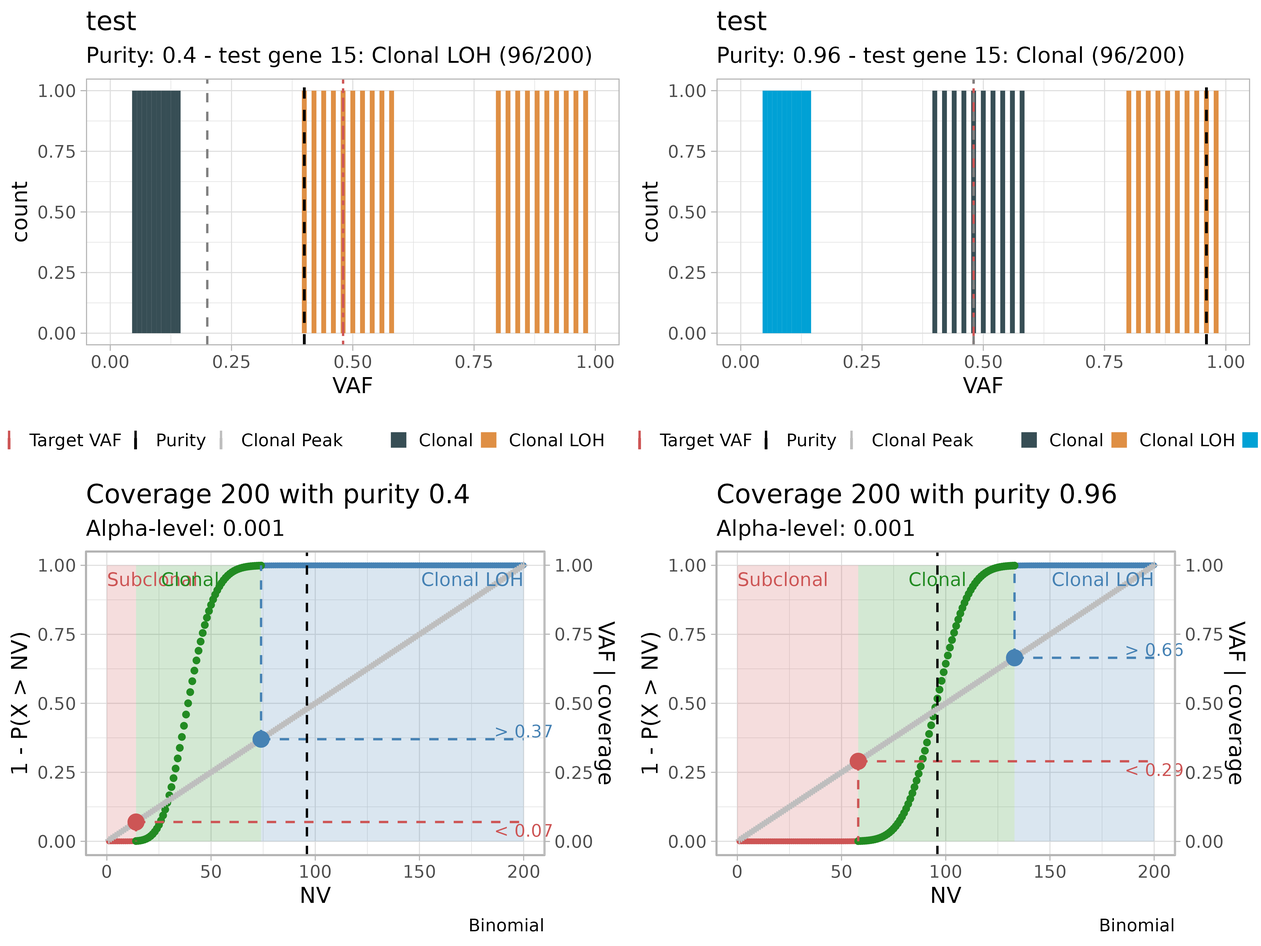
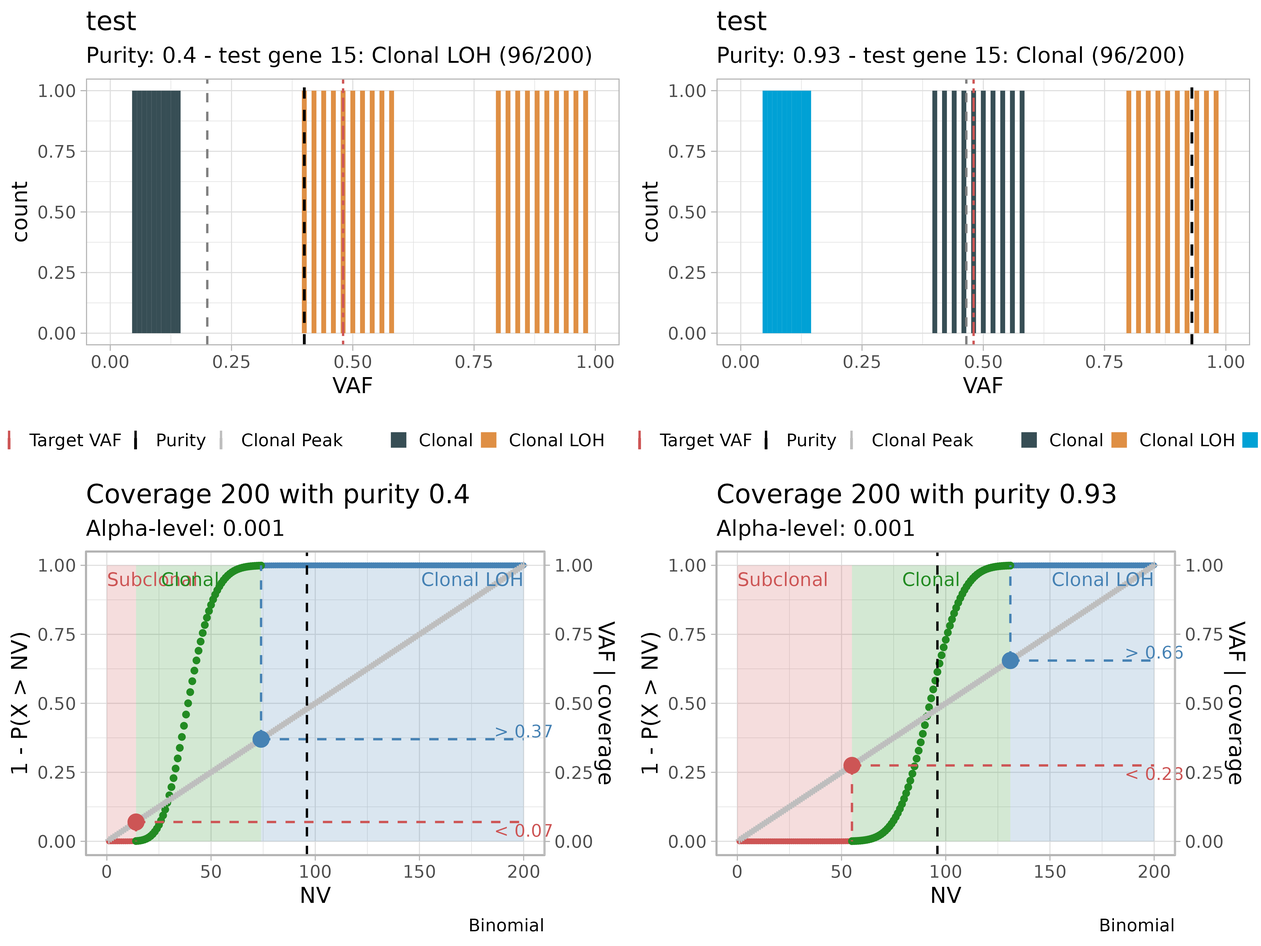
Deploying to gh-pages from @ caravagnalab/TAPACLOTH@2d69d090466bd095324ee751b7a79874f3210a61 🚀

diff --git a/articles/purity-estimates.html b/articles/purity-estimates.html
@@ -133,10 +133,12 @@
 <span></span>
 <span><span class="co">#&gt; Warning in stats4::mle(minuslogl = .NLLBetaBinMix(k + K[1], data, z_nk, : start</span></span>
 <span><span class="co">#&gt; values do not satisfy constraints</span></span>
-<span></span>
+<span><span class="co">#&gt; Warning in lbeta(shape1[okk], shape2[okk]): NaNs produced</span></span>
+<span><span class="co">#&gt; Warning in value[[3L]](cond): MLE error, forcing stop.</span></span>
 <span><span class="co">#&gt; Warning in stats4::mle(minuslogl = .NLLBetaBinMix(k + K[1], data, z_nk, : start</span></span>
 <span><span class="co">#&gt; values do not satisfy constraints</span></span>
-<span></span>
+<span><span class="co">#&gt; Warning in lbeta(shape1[okk], shape2[okk]): NaNs produced</span></span>
+<span><span class="co">#&gt; Warning in value[[3L]](cond): MLE error, forcing stop.</span></span>
 <span><span class="co">#&gt; Warning in stats4::mle(minuslogl = .NLLBetaBinMix(k + K[1], data, z_nk, : start</span></span>
 <span><span class="co">#&gt; values do not satisfy constraints</span></span>
 <span></span>
@@ -152,23 +154,23 @@
 <span></span>
 <span><span class="co">#&gt; Warning in stats4::mle(minuslogl = .NLLBetaBinMix(k + K[1], data, z_nk, : start</span></span>
 <span><span class="co">#&gt; values do not satisfy constraints</span></span>
+<span></span>
+<span><span class="co">#&gt; Warning in stats4::mle(minuslogl = .NLLBetaBinMix(k + K[1], data, z_nk, : start</span></span>
+<span><span class="co">#&gt; values do not satisfy constraints</span></span>
+<span></span>
+<span><span class="co">#&gt; Warning in stats4::mle(minuslogl = .NLLBetaBinMix(k + K[1], data, z_nk, : start</span></span>
+<span><span class="co">#&gt; values do not satisfy constraints</span></span>
+<span></span>
+<span><span class="co">#&gt; Warning in stats4::mle(minuslogl = .NLLBetaBinMix(k + K[1], data, z_nk, : start</span></span>
+<span><span class="co">#&gt; values do not satisfy constraints</span></span>
 <span><span class="co">#&gt; Warning in lbeta(shape1[okk], shape2[okk]): NaNs produced</span></span>
 <span><span class="co">#&gt; Warning in value[[3L]](cond): MLE error, forcing stop.</span></span>
-<span><span class="co">#&gt; Warning in stats4::mle(minuslogl = .NLLBetaBinMix(k + K[1], data, z_nk, : start</span></span>
-<span><span class="co">#&gt; values do not satisfy constraints</span></span>
-<span></span>
-<span><span class="co">#&gt; Warning in stats4::mle(minuslogl = .NLLBetaBinMix(k + K[1], data, z_nk, : start</span></span>
-<span><span class="co">#&gt; values do not satisfy constraints</span></span>
-<span></span>
-<span><span class="co">#&gt; Warning in stats4::mle(minuslogl = .NLLBetaBinMix(k + K[1], data, z_nk, : start</span></span>
-<span><span class="co">#&gt; values do not satisfy constraints</span></span>
-<span></span>
 <span><span class="co">#&gt; Warning in stats4::mle(minuslogl = .NLLBetaBinMix(k + K[1], data, z_nk, : start</span></span>
 <span><span class="co">#&gt; values do not satisfy constraints</span></span>
 <span><span class="co">#&gt; <span style="color: #00BBBB;">ℹ</span> <span style="font-weight: bold;">Bmix best fit</span> completed in 0.02 mins</span></span>
 <span><span class="co">#&gt; ── <span style="color: #000000; background-color: #BBBB00;">[ BMix ] My BMix model</span> n = 10 with <span style="color: #00BB00;">k = 1</span> component(s) (<span style="color: #00BB00;">0</span> + <span style="color: #00BB00;">1</span>) ───────────────</span></span>
 <span><span class="co">#&gt; • Clusters: π = 100% [<span style="color: #BBBB00;">BBin 1</span>], with π &gt; 0.</span></span>
-<span><span class="co">#&gt; <span style="color: #00BBBB;">ℹ</span> Score (model selection): <span style="color: #00BB00;">ICL</span> = 98.97.</span></span>
+<span><span class="co">#&gt; <span style="color: #00BBBB;">ℹ</span> Score (model selection): <span style="color: #00BB00;">ICL</span> = 99.</span></span>
 <span><span class="co">#&gt; Warning: `guides(&lt;scale&gt; = FALSE)` is deprecated. Please use `guides(&lt;scale&gt; =</span></span>
 <span><span class="co">#&gt; "none")` instead.</span></span>
 <span><span class="co">#&gt; Warning: Removed 2 rows containing missing values (geom_bar).</span></span>
@@ -212,17 +214,6 @@
 <span><span class="co">#&gt; <span style="color: #00BBBB;">ℹ</span> Binomials k_B = <span style="color: #00BB00;">0</span>, Beta-Binomials k_BB = <span style="color: #00BB00;">1</span>, <span style="color: #00BB00;">2</span>, and <span style="color: #00BB00;">3</span>; 6 fits to run.</span></span>
 <span><span class="co">#&gt; Warning in stats4::mle(minuslogl = .NLLBetaBinMix(k + K[1], data, z_nk, : start</span></span>
 <span><span class="co">#&gt; values do not satisfy constraints</span></span>
-<span></span>
-<span><span class="co">#&gt; Warning in stats4::mle(minuslogl = .NLLBetaBinMix(k + K[1], data, z_nk, : start</span></span>
-<span><span class="co">#&gt; values do not satisfy constraints</span></span>
-<span><span class="co">#&gt; Warning in lbeta(shape1[okk], shape2[okk]): NaNs produced</span></span>
-<span><span class="co">#&gt; Warning in value[[3L]](cond): MLE error, forcing stop.</span></span>
-<span><span class="co">#&gt; Warning in stats4::mle(minuslogl = .NLLBetaBinMix(k + K[1], data, z_nk, : start</span></span>
-<span><span class="co">#&gt; values do not satisfy constraints</span></span>
-<span><span class="co">#&gt; Warning in lbeta(shape1[okk], shape2[okk]): NaNs produced</span></span>
-<span><span class="co">#&gt; Warning in value[[3L]](cond): MLE error, forcing stop.</span></span>
-<span><span class="co">#&gt; Warning in stats4::mle(minuslogl = .NLLBetaBinMix(k + K[1], data, z_nk, : start</span></span>
-<span><span class="co">#&gt; values do not satisfy constraints</span></span>
 <span><span class="co">#&gt; Warning in lbeta(shape1[okk], shape2[okk]): NaNs produced</span></span>
 <span><span class="co">#&gt; Warning in value[[3L]](cond): MLE error, forcing stop.</span></span>
 <span><span class="co">#&gt; Warning in stats4::mle(minuslogl = .NLLBetaBinMix(k + K[1], data, z_nk, : start</span></span>
@@ -248,12 +239,19 @@
 <span></span>
 <span><span class="co">#&gt; Warning in stats4::mle(minuslogl = .NLLBetaBinMix(k + K[1], data, z_nk, : start</span></span>
 <span><span class="co">#&gt; values do not satisfy constraints</span></span>
-<span><span class="co">#&gt; Warning in lbeta(shape1[okk], shape2[okk]): NaNs produced</span></span>
-<span><span class="co">#&gt; Warning in value[[3L]](cond): MLE error, forcing stop.</span></span>
+<span></span>
+<span><span class="co">#&gt; Warning in stats4::mle(minuslogl = .NLLBetaBinMix(k + K[1], data, z_nk, : start</span></span>
+<span><span class="co">#&gt; values do not satisfy constraints</span></span>
+<span></span>
+<span><span class="co">#&gt; Warning in stats4::mle(minuslogl = .NLLBetaBinMix(k + K[1], data, z_nk, : start</span></span>
+<span><span class="co">#&gt; values do not satisfy constraints</span></span>
+<span></span>
+<span><span class="co">#&gt; Warning in stats4::mle(minuslogl = .NLLBetaBinMix(k + K[1], data, z_nk, : start</span></span>
+<span><span class="co">#&gt; values do not satisfy constraints</span></span>
 <span><span class="co">#&gt; <span style="color: #00BBBB;">ℹ</span> <span style="font-weight: bold;">Bmix best fit</span> completed in 0.02 mins</span></span>
 <span><span class="co">#&gt; ── <span style="color: #000000; background-color: #BBBB00;">[ BMix ] My BMix model</span> n = 30 with <span style="color: #00BB00;">k = 3</span> component(s) (<span style="color: #00BB00;">0</span> + <span style="color: #00BB00;">3</span>) ───────────────</span></span>
-<span><span class="co">#&gt; • Clusters: π = 33% [<span style="color: #BBBB00;">BBin 2</span>], 33% [<span style="color: #BBBB00;">BBin 3</span>], and 33% [<span style="color: #BBBB00;">BBin 1</span>], with π &gt; 0.</span></span>
-<span><span class="co">#&gt; <span style="color: #00BBBB;">ℹ</span> Score (model selection): <span style="color: #00BB00;">ICL</span> = 314.68.</span></span>
+<span><span class="co">#&gt; • Clusters: π = 33% [<span style="color: #BBBB00;">BBin 2</span>], 33% [<span style="color: #BBBB00;">BBin 1</span>], and 33% [<span style="color: #BBBB00;">BBin 3</span>], with π &gt; 0.</span></span>
+<span><span class="co">#&gt; <span style="color: #00BBBB;">ℹ</span> Score (model selection): <span style="color: #00BB00;">ICL</span> = 317.09.</span></span>
 <span><span class="co">#&gt; Warning: `guides(&lt;scale&gt; = FALSE)` is deprecated. Please use `guides(&lt;scale&gt; =</span></span>
 <span><span class="co">#&gt; "none")` instead.</span></span>
 <span><span class="co">#&gt; Warning: Removed 6 rows containing missing values (geom_bar).</span></span>
@@ -270,7 +268,7 @@
 <span><span class="co">#&gt; <span style="color: #949494;"># A tibble: 1 × 4</span></span></span>
 <span><span class="co">#&gt;   sample input_purity reliability purity</span></span>
 <span><span class="co">#&gt;   <span style="color: #949494; font-style: italic;">&lt;chr&gt;</span>         <span style="color: #949494; font-style: italic;">&lt;dbl&gt;</span>       <span style="color: #949494; font-style: italic;">&lt;dbl&gt;</span>  <span style="color: #949494; font-style: italic;">&lt;dbl&gt;</span></span></span>
-<span><span class="co">#&gt; <span style="color: #BCBCBC;">1</span> test            0.4       0.408   0.98</span></span></code></pre></div>
+<span><span class="co">#&gt; <span style="color: #BCBCBC;">1</span> test            0.4       0.430   0.93</span></span></code></pre></div>
 <p>Results of the fitting procedure are shown in a plot in <code>data$purity_estimate$binomial$plot_bmix</code>.</p>
 <p>The output plot shows (left) the assignment of variants to the fitted mixture components, (center) the fitted densities and a comparison between the tested model, based on three different likelihood measures (BIC, ICL and NLL).</p>
 <div class="sourceCode" id="cb4"><pre class="downlit sourceCode r">
@@ -303,7 +301,7 @@
 <span><span class="co">#&gt; <span style="color: #949494;"># A tibble: 1 × 4</span></span></span>
 <span><span class="co">#&gt;   sample input_purity reliability purity</span></span>
 <span><span class="co">#&gt;   <span style="color: #949494; font-style: italic;">&lt;chr&gt;</span>         <span style="color: #949494; font-style: italic;">&lt;dbl&gt;</span>       <span style="color: #949494; font-style: italic;">&lt;dbl&gt;</span>  <span style="color: #949494; font-style: italic;">&lt;dbl&gt;</span></span></span>
-<span><span class="co">#&gt; <span style="color: #BCBCBC;">1</span> test            0.4       0.408   0.98</span></span>
+<span><span class="co">#&gt; <span style="color: #BCBCBC;">1</span> test            0.4       0.430   0.93</span></span>
 <span><span class="co">#&gt; ── <span style="color: #000000; background-color: #BB00BB;">[ TAPACLOTH ] </span> Test using <span style="color: #00BB00;">beta-binomial</span> model   ─────────────────────────────</span></span>
 <span><span class="co">#&gt; <span style="color: #949494;"># A tibble: 30 × 8</span></span></span>
 <span><span class="co">#&gt;    sample gene            nv    dp   VAF class  p_subclonal p_loh</span></span>
@@ -339,8 +337,7 @@
 <span></span>
 <span><span class="co">#&gt; Warning in stats4::mle(minuslogl = .NLLBetaBinMix(k + K[1], data, z_nk, : start</span></span>
 <span><span class="co">#&gt; values do not satisfy constraints</span></span>
-<span><span class="co">#&gt; Warning in lbeta(shape1[okk], shape2[okk]): NaNs produced</span></span>
-<span><span class="co">#&gt; Warning in value[[3L]](cond): MLE error, forcing stop.</span></span>
+<span></span>
 <span><span class="co">#&gt; Warning in stats4::mle(minuslogl = .NLLBetaBinMix(k + K[1], data, z_nk, : start</span></span>
 <span><span class="co">#&gt; values do not satisfy constraints</span></span>
 <span></span>
@@ -370,8 +367,8 @@
 <span><span class="co">#&gt; values do not satisfy constraints</span></span>
 <span><span class="co">#&gt; <span style="color: #00BBBB;">ℹ</span> <span style="font-weight: bold;">Bmix best fit</span> completed in 0.02 mins</span></span>
 <span><span class="co">#&gt; ── <span style="color: #000000; background-color: #BBBB00;">[ BMix ] My BMix model</span> n = 30 with <span style="color: #00BB00;">k = 3</span> component(s) (<span style="color: #00BB00;">0</span> + <span style="color: #00BB00;">3</span>) ───────────────</span></span>
-<span><span class="co">#&gt; • Clusters: π = 33% [<span style="color: #BBBB00;">BBin 1</span>], 33% [<span style="color: #BBBB00;">BBin 3</span>], and 33% [<span style="color: #BBBB00;">BBin 2</span>], with π &gt; 0.</span></span>
-<span><span class="co">#&gt; <span style="color: #00BBBB;">ℹ</span> Score (model selection): <span style="color: #00BB00;">ICL</span> = 317.39.</span></span>
+<span><span class="co">#&gt; • Clusters: π = 33% [<span style="color: #BBBB00;">BBin 2</span>], 33% [<span style="color: #BBBB00;">BBin 1</span>], and 33% [<span style="color: #BBBB00;">BBin 3</span>], with π &gt; 0.</span></span>
+<span><span class="co">#&gt; <span style="color: #00BBBB;">ℹ</span> Score (model selection): <span style="color: #00BB00;">ICL</span> = 317.95.</span></span>
 <span><span class="co">#&gt; Warning: `guides(&lt;scale&gt; = FALSE)` is deprecated. Please use `guides(&lt;scale&gt; =</span></span>
 <span><span class="co">#&gt; "none")` instead.</span></span>
 <span><span class="co">#&gt; Warning: Removed 6 rows containing missing values (geom_bar).</span></span>
@@ -389,20 +386,20 @@
 <span><span class="co">#&gt; <span style="color: #949494;"># A tibble: 1 × 4</span></span></span>
 <span><span class="co">#&gt;   sample input_purity reliability purity</span></span>
 <span><span class="co">#&gt;   <span style="color: #949494; font-style: italic;">&lt;chr&gt;</span>         <span style="color: #949494; font-style: italic;">&lt;dbl&gt;</span>       <span style="color: #949494; font-style: italic;">&lt;dbl&gt;</span>  <span style="color: #949494; font-style: italic;">&lt;dbl&gt;</span></span></span>
-<span><span class="co">#&gt; <span style="color: #BCBCBC;">1</span> test           0.96       0.408   0.98</span></span>
+<span><span class="co">#&gt; <span style="color: #BCBCBC;">1</span> test           0.93       0.430   0.93</span></span>
 <span><span class="co">#&gt; <span style="color: #949494;"># A tibble: 1 × 4</span></span></span>
 <span><span class="co">#&gt;   sample input_purity reliability purity</span></span>
 <span><span class="co">#&gt;   <span style="color: #949494; font-style: italic;">&lt;chr&gt;</span>         <span style="color: #949494; font-style: italic;">&lt;dbl&gt;</span>       <span style="color: #949494; font-style: italic;">&lt;dbl&gt;</span>  <span style="color: #949494; font-style: italic;">&lt;dbl&gt;</span></span></span>
-<span><span class="co">#&gt; <span style="color: #BCBCBC;">1</span> test           0.96       0.417   0.96</span></span>
+<span><span class="co">#&gt; <span style="color: #BCBCBC;">1</span> test           0.93       0.430   0.93</span></span>
 <span><span class="co">#&gt; ── <span style="color: #000000; background-color: #BB00BB;">[ TAPACLOTH ] </span> Purity estimate using  <span style="color: #000000; background-color: #BBBB00;">[ BMix ] </span> with <span style="color: #00BB00;">beta-binomial</span> model ────</span></span>
 <span><span class="co">#&gt; <span style="color: #949494;"># A tibble: 1 × 4</span></span></span>
 <span><span class="co">#&gt;   sample input_purity reliability purity</span></span>
 <span><span class="co">#&gt;   <span style="color: #949494; font-style: italic;">&lt;chr&gt;</span>         <span style="color: #949494; font-style: italic;">&lt;dbl&gt;</span>       <span style="color: #949494; font-style: italic;">&lt;dbl&gt;</span>  <span style="color: #949494; font-style: italic;">&lt;dbl&gt;</span></span></span>
-<span><span class="co">#&gt; <span style="color: #BCBCBC;">1</span> test           0.96       0.408   0.98</span></span>
+<span><span class="co">#&gt; <span style="color: #BCBCBC;">1</span> test           0.93       0.430   0.93</span></span>
 <span><span class="co">#&gt; <span style="color: #949494;"># A tibble: 1 × 4</span></span></span>
 <span><span class="co">#&gt;   sample input_purity reliability purity</span></span>
 <span><span class="co">#&gt;   <span style="color: #949494; font-style: italic;">&lt;chr&gt;</span>         <span style="color: #949494; font-style: italic;">&lt;dbl&gt;</span>       <span style="color: #949494; font-style: italic;">&lt;dbl&gt;</span>  <span style="color: #949494; font-style: italic;">&lt;dbl&gt;</span></span></span>
-<span><span class="co">#&gt; <span style="color: #BCBCBC;">1</span> test           0.96       0.417   0.96</span></span>
+<span><span class="co">#&gt; <span style="color: #BCBCBC;">1</span> test           0.93       0.430   0.93</span></span>
 <span></span>
 <span><span class="va">classified_right</span> <span class="op">=</span> <span class="fu"><a href="../reference/run_classifier.html">run_classifier</a></span><span class="op">(</span></span>
 <span>  x <span class="op">=</span> <span class="va">data</span>,</span>
@@ -419,34 +416,34 @@
 <span><span class="co">#&gt; <span style="color: #949494;"># A tibble: 1 × 4</span></span></span>
 <span><span class="co">#&gt;   sample input_purity reliability purity</span></span>
 <span><span class="co">#&gt;   <span style="color: #949494; font-style: italic;">&lt;chr&gt;</span>         <span style="color: #949494; font-style: italic;">&lt;dbl&gt;</span>       <span style="color: #949494; font-style: italic;">&lt;dbl&gt;</span>  <span style="color: #949494; font-style: italic;">&lt;dbl&gt;</span></span></span>
-<span><span class="co">#&gt; <span style="color: #BCBCBC;">1</span> test           0.96       0.408   0.98</span></span>
+<span><span class="co">#&gt; <span style="color: #BCBCBC;">1</span> test           0.93       0.430   0.93</span></span>
 <span><span class="co">#&gt; <span style="color: #949494;"># A tibble: 1 × 4</span></span></span>
 <span><span class="co">#&gt;   sample input_purity reliability purity</span></span>
 <span><span class="co">#&gt;   <span style="color: #949494; font-style: italic;">&lt;chr&gt;</span>         <span style="color: #949494; font-style: italic;">&lt;dbl&gt;</span>       <span style="color: #949494; font-style: italic;">&lt;dbl&gt;</span>  <span style="color: #949494; font-style: italic;">&lt;dbl&gt;</span></span></span>
-<span><span class="co">#&gt; <span style="color: #BCBCBC;">1</span> test           0.96       0.417   0.96</span></span>
+<span><span class="co">#&gt; <span style="color: #BCBCBC;">1</span> test           0.93       0.430   0.93</span></span>
 <span><span class="co">#&gt; ── <span style="color: #000000; background-color: #BB00BB;">[ TAPACLOTH ] </span> Purity estimate using  <span style="color: #000000; background-color: #BBBB00;">[ BMix ] </span> with <span style="color: #00BB00;">beta-binomial</span> model ────</span></span>
 <span><span class="co">#&gt; <span style="color: #949494;"># A tibble: 1 × 4</span></span></span>
 <span><span class="co">#&gt;   sample input_purity reliability purity</span></span>
 <span><span class="co">#&gt;   <span style="color: #949494; font-style: italic;">&lt;chr&gt;</span>         <span style="color: #949494; font-style: italic;">&lt;dbl&gt;</span>       <span style="color: #949494; font-style: italic;">&lt;dbl&gt;</span>  <span style="color: #949494; font-style: italic;">&lt;dbl&gt;</span></span></span>
-<span><span class="co">#&gt; <span style="color: #BCBCBC;">1</span> test           0.96       0.408   0.98</span></span>
+<span><span class="co">#&gt; <span style="color: #BCBCBC;">1</span> test           0.93       0.430   0.93</span></span>
 <span><span class="co">#&gt; <span style="color: #949494;"># A tibble: 1 × 4</span></span></span>
 <span><span class="co">#&gt;   sample input_purity reliability purity</span></span>
 <span><span class="co">#&gt;   <span style="color: #949494; font-style: italic;">&lt;chr&gt;</span>         <span style="color: #949494; font-style: italic;">&lt;dbl&gt;</span>       <span style="color: #949494; font-style: italic;">&lt;dbl&gt;</span>  <span style="color: #949494; font-style: italic;">&lt;dbl&gt;</span></span></span>
-<span><span class="co">#&gt; <span style="color: #BCBCBC;">1</span> test           0.96       0.417   0.96</span></span>
+<span><span class="co">#&gt; <span style="color: #BCBCBC;">1</span> test           0.93       0.430   0.93</span></span>
 <span><span class="co">#&gt; ── <span style="color: #000000; background-color: #BB00BB;">[ TAPACLOTH ] </span> Test using <span style="color: #00BB00;">beta-binomial</span> model   ─────────────────────────────</span></span>
 <span><span class="co">#&gt; <span style="color: #949494;"># A tibble: 30 × 8</span></span></span>
 <span><span class="co">#&gt;    sample gene            nv    dp   VAF class     p_subclonal p_loh</span></span>
 <span><span class="co">#&gt;    <span style="color: #949494; font-style: italic;">&lt;chr&gt;</span>  <span style="color: #949494; font-style: italic;">&lt;chr&gt;</span>        <span style="color: #949494; font-style: italic;">&lt;dbl&gt;</span> <span style="color: #949494; font-style: italic;">&lt;dbl&gt;</span> <span style="color: #949494; font-style: italic;">&lt;dbl&gt;</span> <span style="color: #949494; font-style: italic;">&lt;chr&gt;</span>           <span style="color: #949494; font-style: italic;">&lt;dbl&gt;</span> <span style="color: #949494; font-style: italic;">&lt;dbl&gt;</span></span></span>
-<span><span class="co">#&gt; <span style="color: #BCBCBC;"> 1</span> test   test gene 1     10   200  0.05 Subclonal    9.61<span style="color: #949494;">e</span><span style="color: #BB0000;">-17</span>     1</span></span>
-<span><span class="co">#&gt; <span style="color: #BCBCBC;"> 2</span> test   test gene 2     12   200  0.06 Subclonal    8.00<span style="color: #949494;">e</span><span style="color: #BB0000;">-16</span>     1</span></span>
-<span><span class="co">#&gt; <span style="color: #BCBCBC;"> 3</span> test   test gene 3     14   200  0.07 Subclonal    6.86<span style="color: #949494;">e</span><span style="color: #BB0000;">-15</span>     1</span></span>
-<span><span class="co">#&gt; <span style="color: #BCBCBC;"> 4</span> test   test gene 4     16   200  0.08 Subclonal    5.33<span style="color: #949494;">e</span><span style="color: #BB0000;">-14</span>     1</span></span>
-<span><span class="co">#&gt; <span style="color: #BCBCBC;"> 5</span> test   test gene 5     18   200  0.09 Subclonal    3.67<span style="color: #949494;">e</span><span style="color: #BB0000;">-13</span>     1</span></span>
-<span><span class="co">#&gt; <span style="color: #BCBCBC;"> 6</span> test   test gene 6     20   200  0.1  Subclonal    2.24<span style="color: #949494;">e</span><span style="color: #BB0000;">-12</span>     1</span></span>
-<span><span class="co">#&gt; <span style="color: #BCBCBC;"> 7</span> test   test gene 7     22   200  0.11 Subclonal    1.23<span style="color: #949494;">e</span><span style="color: #BB0000;">-11</span>     1</span></span>
-<span><span class="co">#&gt; <span style="color: #BCBCBC;"> 8</span> test   test gene 8     24   200  0.12 Subclonal    6.03<span style="color: #949494;">e</span><span style="color: #BB0000;">-11</span>     1</span></span>
-<span><span class="co">#&gt; <span style="color: #BCBCBC;"> 9</span> test   test gene 9     26   200  0.13 Subclonal    2.69<span style="color: #949494;">e</span><span style="color: #BB0000;">-10</span>     1</span></span>
-<span><span class="co">#&gt; <span style="color: #BCBCBC;">10</span> test   test gene 10    28   200  0.14 Subclonal    1.10<span style="color: #949494;">e</span><span style="color: #BB0000;">- 9</span>     1</span></span>
+<span><span class="co">#&gt; <span style="color: #BCBCBC;"> 1</span> test   test gene 1     10   200  0.05 Subclonal    7.16<span style="color: #949494;">e</span><span style="color: #BB0000;">-16</span>     1</span></span>
+<span><span class="co">#&gt; <span style="color: #BCBCBC;"> 2</span> test   test gene 2     12   200  0.06 Subclonal    5.60<span style="color: #949494;">e</span><span style="color: #BB0000;">-15</span>     1</span></span>
+<span><span class="co">#&gt; <span style="color: #BCBCBC;"> 3</span> test   test gene 3     14   200  0.07 Subclonal    4.52<span style="color: #949494;">e</span><span style="color: #BB0000;">-14</span>     1</span></span>
+<span><span class="co">#&gt; <span style="color: #BCBCBC;"> 4</span> test   test gene 4     16   200  0.08 Subclonal    3.31<span style="color: #949494;">e</span><span style="color: #BB0000;">-13</span>     1</span></span>
+<span><span class="co">#&gt; <span style="color: #BCBCBC;"> 5</span> test   test gene 5     18   200  0.09 Subclonal    2.15<span style="color: #949494;">e</span><span style="color: #BB0000;">-12</span>     1</span></span>
+<span><span class="co">#&gt; <span style="color: #BCBCBC;"> 6</span> test   test gene 6     20   200  0.1  Subclonal    1.24<span style="color: #949494;">e</span><span style="color: #BB0000;">-11</span>     1</span></span>
+<span><span class="co">#&gt; <span style="color: #BCBCBC;"> 7</span> test   test gene 7     22   200  0.11 Subclonal    6.42<span style="color: #949494;">e</span><span style="color: #BB0000;">-11</span>     1</span></span>
+<span><span class="co">#&gt; <span style="color: #BCBCBC;"> 8</span> test   test gene 8     24   200  0.12 Subclonal    2.99<span style="color: #949494;">e</span><span style="color: #BB0000;">-10</span>     1</span></span>
+<span><span class="co">#&gt; <span style="color: #BCBCBC;"> 9</span> test   test gene 9     26   200  0.13 Subclonal    1.27<span style="color: #949494;">e</span><span style="color: #BB0000;">- 9</span>     1</span></span>
+<span><span class="co">#&gt; <span style="color: #BCBCBC;">10</span> test   test gene 10    28   200  0.14 Subclonal    4.91<span style="color: #949494;">e</span><span style="color: #BB0000;">- 9</span>     1</span></span>
 <span><span class="co">#&gt; <span style="color: #949494;"># … with 20 more rows</span></span></span></code></pre></div>
 <p>The two classifications can be compared.</p>
 <div class="sourceCode" id="cb7"><pre class="downlit sourceCode r">

diff --git a/reference/estimate_purity.html b/reference/estimate_purity.html
@@ -117,6 +117,8 @@ frequency (VAF), and sample purity (purity) as columns.</p></dd>
 <span class="r-wrn co"><span class="r-pr">#&gt;</span> <span class="warning">Warning: </span>replacing previous import ‘cli::num_ansi_colors’ by ‘crayon::num_ansi_colors’ when loading ‘easypar’</span>
 <span class="r-wrn co"><span class="r-pr">#&gt;</span> <span class="warning">Warning: </span>start values do not satisfy constraints</span>
 <span class="r-wrn co"><span class="r-pr">#&gt;</span> <span class="warning">Warning: </span>start values do not satisfy constraints</span>
+<span class="r-wrn co"><span class="r-pr">#&gt;</span> <span class="warning">Warning: </span>NaNs produced</span>
+<span class="r-wrn co"><span class="r-pr">#&gt;</span> <span class="warning">Warning: </span>MLE error, forcing stop.</span>
 <span class="r-wrn co"><span class="r-pr">#&gt;</span> <span class="warning">Warning: </span>start values do not satisfy constraints</span>
 <span class="r-wrn co"><span class="r-pr">#&gt;</span> <span class="warning">Warning: </span>start values do not satisfy constraints</span>
 <span class="r-wrn co"><span class="r-pr">#&gt;</span> <span class="warning">Warning: </span>start values do not satisfy constraints</span>
@@ -133,8 +135,8 @@ frequency (VAF), and sample purity (purity) as columns.</p></dd>
 <span class="r-msg co"><span class="r-pr">#&gt;</span> <span style="color: #00BBBB;">ℹ</span> <span style="font-weight: bold;">Bmix best fit</span> completed in 0.02 mins</span>
 <span class="r-out co"><span class="r-pr">#&gt;</span> </span>
 <span class="r-msg co"><span class="r-pr">#&gt;</span> ── <span style="color: #000000; background-color: #BBBB00;">[ BMix ] My BMix model</span> n = 30 with <span style="color: #00BB00;">k = 3</span> component(s) (<span style="color: #00BB00;">0</span> + <span style="color: #00BB00;">3</span>) ───────────────</span>
-<span class="r-msg co"><span class="r-pr">#&gt;</span> • Clusters: π = 33% [<span style="color: #BBBB00;">BBin 2</span>], 33% [<span style="color: #BBBB00;">BBin 3</span>], and 33% [<span style="color: #BBBB00;">BBin 1</span>], with π &gt; 0.</span>
-<span class="r-msg co"><span class="r-pr">#&gt;</span> <span style="color: #00BBBB;">ℹ</span> Score (model selection): <span style="color: #00BB00;">ICL</span> = 316.8.</span>
+<span class="r-msg co"><span class="r-pr">#&gt;</span> • Clusters: π = 33% [<span style="color: #BBBB00;">BBin 3</span>], 33% [<span style="color: #BBBB00;">BBin 1</span>], and 33% [<span style="color: #BBBB00;">BBin 2</span>], with π &gt; 0.</span>
+<span class="r-msg co"><span class="r-pr">#&gt;</span> <span style="color: #00BBBB;">ℹ</span> Score (model selection): <span style="color: #00BB00;">ICL</span> = 319.68.</span>
 <span class="r-wrn co"><span class="r-pr">#&gt;</span> <span class="warning">Warning: </span>`guides(&lt;scale&gt; = FALSE)` is deprecated. Please use `guides(&lt;scale&gt; = "none")` instead.</span>
 <span class="r-wrn co"><span class="r-pr">#&gt;</span> <span class="warning">Warning: </span>Removed 6 rows containing missing values (geom_bar).</span>
 <span class="r-wrn co"><span class="r-pr">#&gt;</span> <span class="warning">Warning: </span>Graphs cannot be horizontally aligned unless the axis parameter is set. Placing graphs unaligned.</span>
